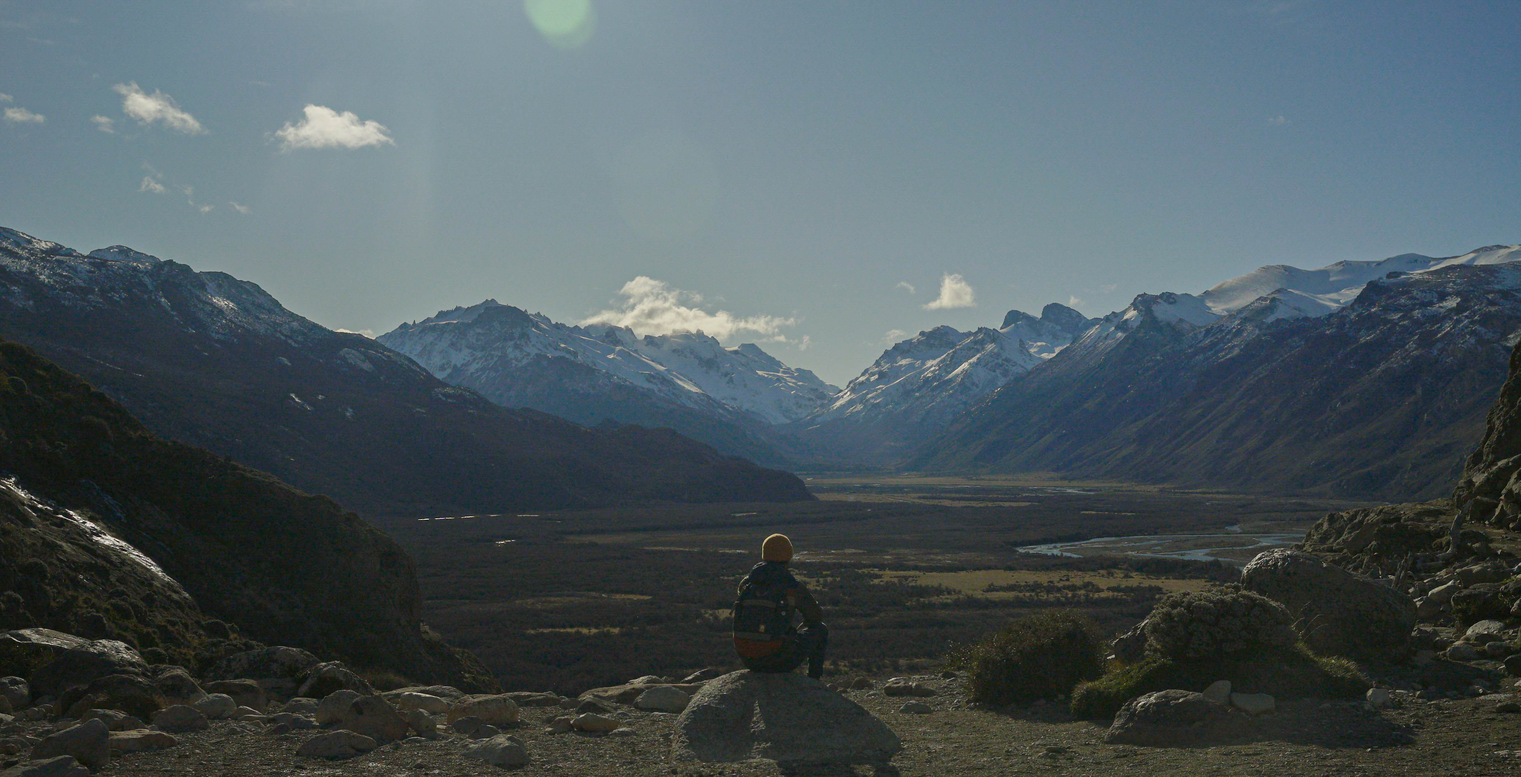
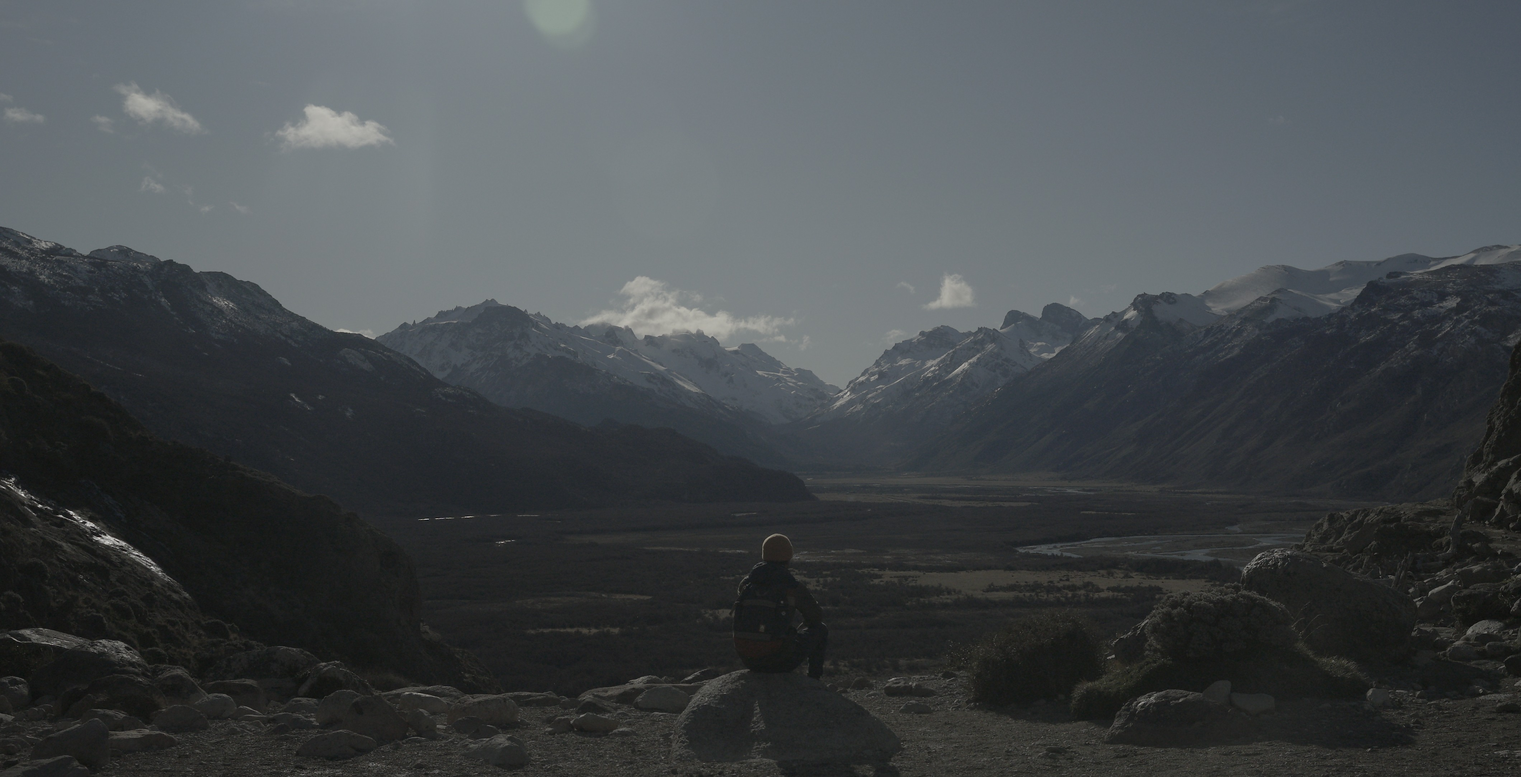
graded

diff --git a/src/assets/sass/_masthead.scss b/src/assets/sass/_masthead.scss
@@ -10,7 +10,7 @@
       #{fade-out($black, 0.3)} 75%,
       $black 100%
     ),
-    url('../images/fitz.jpg');
+    url('../images/fitz2.jpg');
   background-position: center;
   background-repeat: no-repeat;
   background-attachment: scroll;

diff --git a/src/assets/sass/_signup.scss b/src/assets/sass/_signup.scss
@@ -13,7 +13,7 @@
       #{fade-out($black, 0.5)} 75%,
       $black 100%
     ),
-    url('../images/sit.jpg');
+    url('../images/sit2.jpg');
   background-position: center;
   background-repeat: no-repeat;
   background-attachment: scroll;
